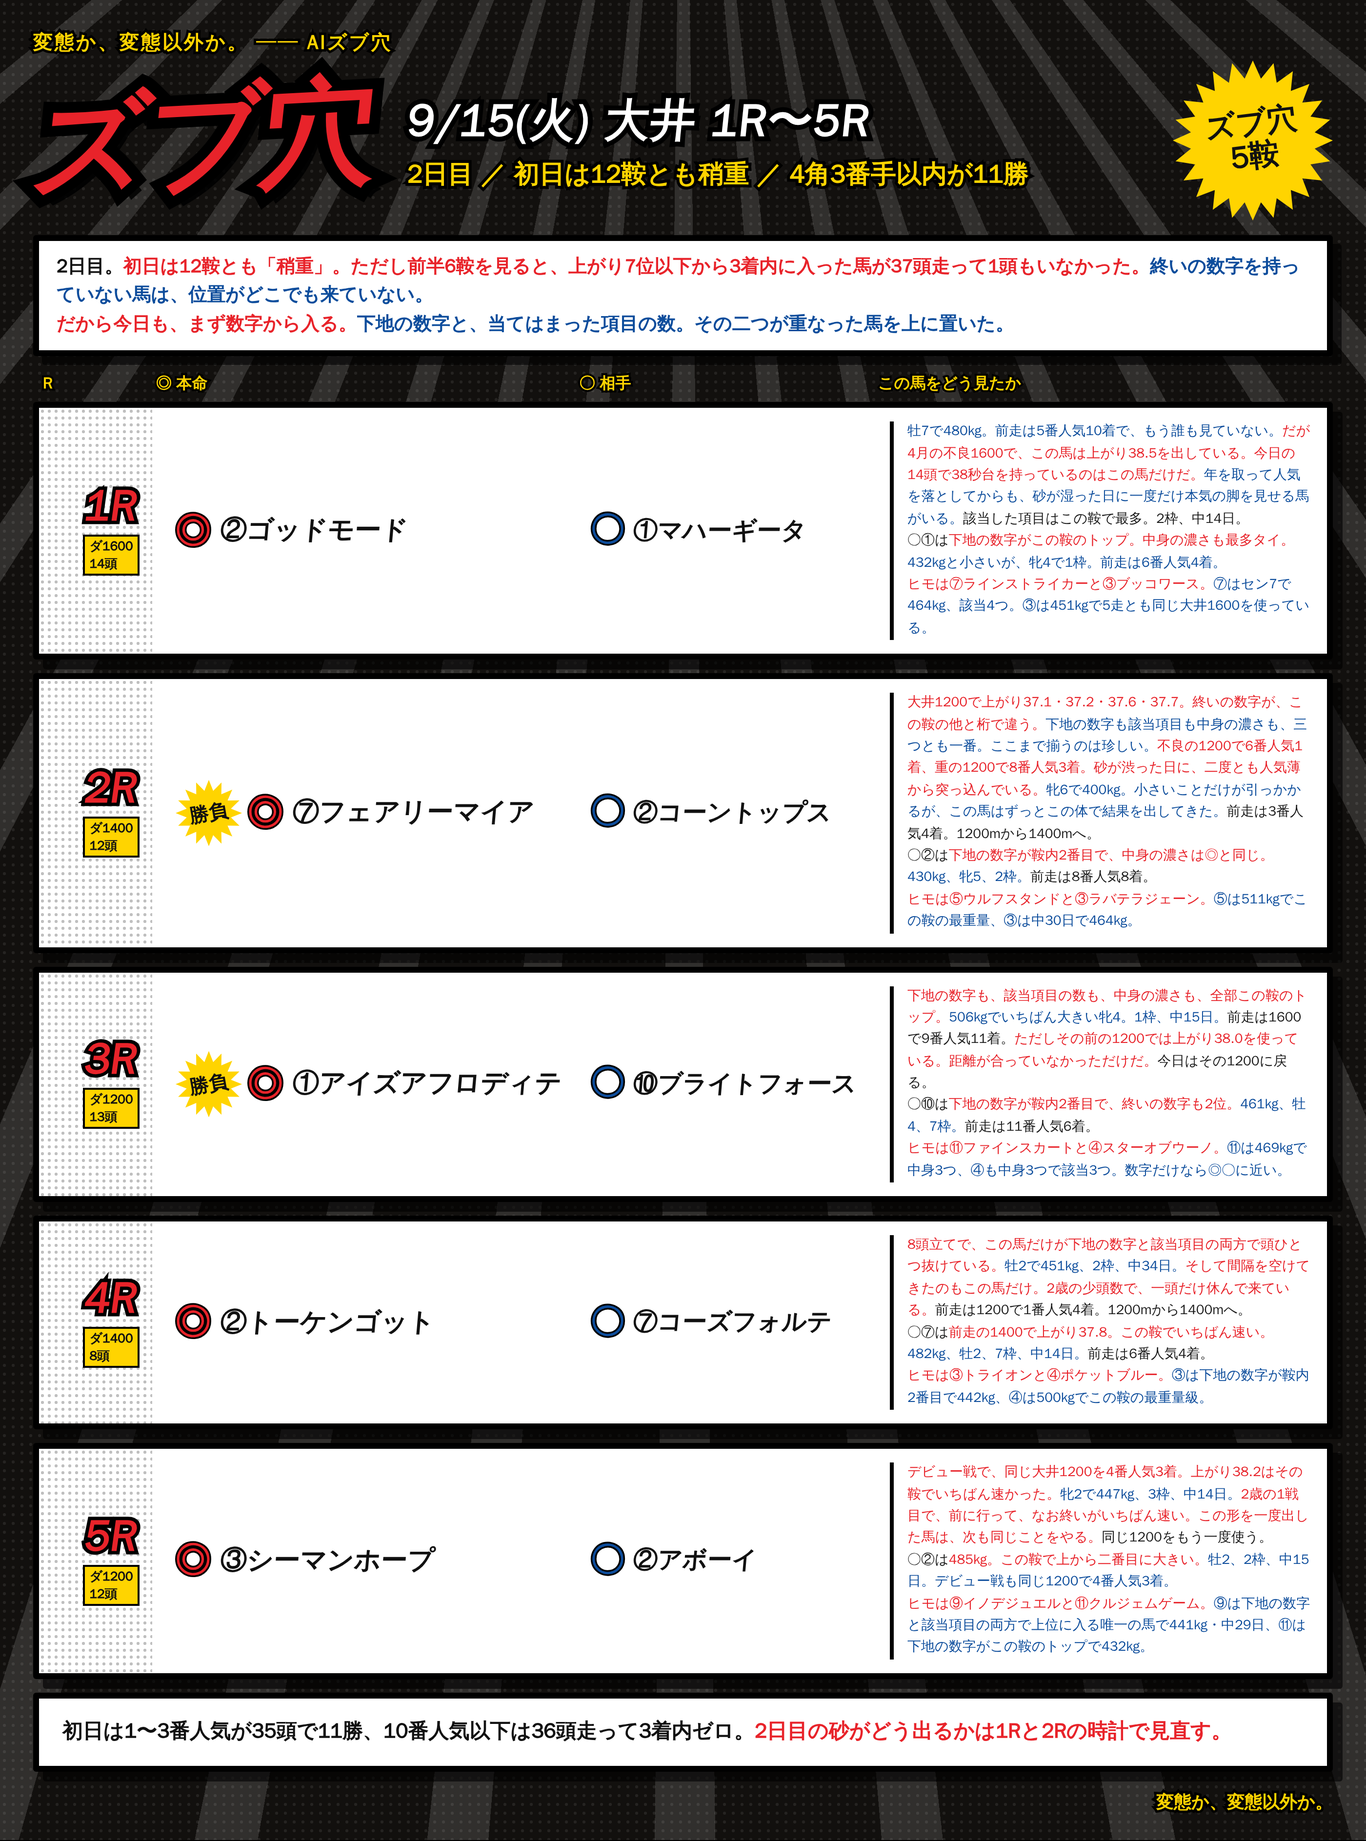
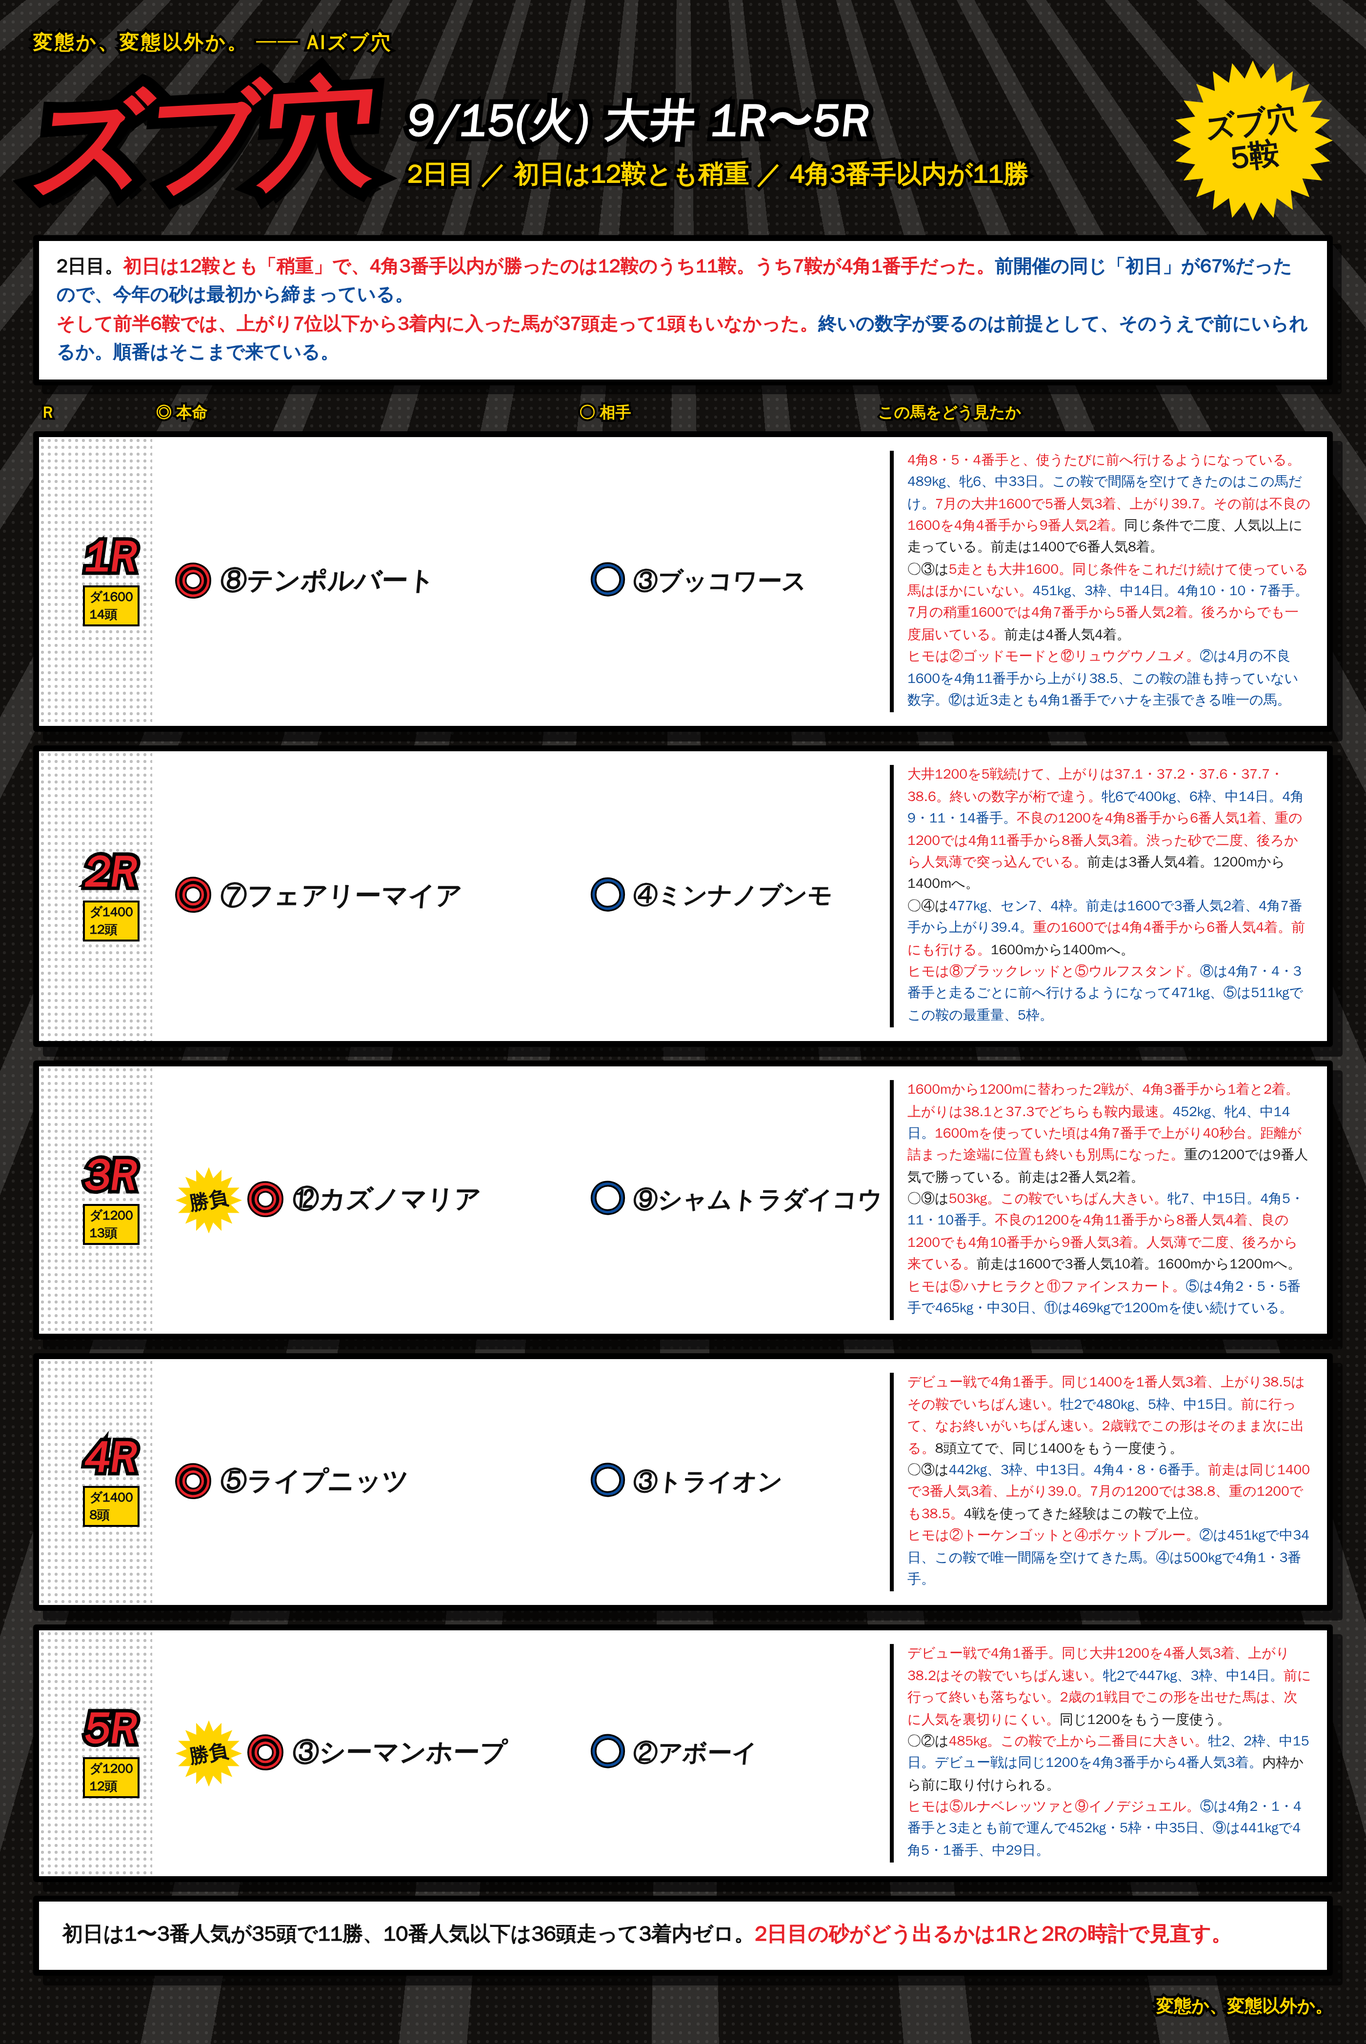
大井 9/15: 指定版に戻し、5Rを◎③シーマンホープ ○②アボーイに
Claude-Session: https://claude.ai/code/session_01RoHscZkr96FNaxQWvUqgEw

diff --git a/notes/live/2026-09-15/oi_1_5.html b/notes/live/2026-09-15/oi_1_5.html
@@ -79,13 +79,13 @@
 <body><div class="card"><div class="lines"></div><div class="tone"></div><div class="inner">
 <div class="kicker">変態か、変態以外か。 ── AIズブ穴</div>
 <div class="head"><div class="gekiga">ズブ穴</div><div class="dateblk"><div class="d1">9/15(火) 大井 1R〜5R</div><div class="d2">2日目 ／ 初日は12鞍とも稍重 ／ 4角3番手以内が11勝</div></div><div class="burst"><span>ズブ穴<br>5鞍</span></div></div>
-<div class="lead">2日目。<span class="r">初日は12鞍とも「稍重」。ただし前半6鞍を見ると、上がり7位以下から3着内に入った馬が37頭走って1頭もいなかった。</span><span class="b">終いの数字を持っていない馬は、位置がどこでも来ていない。</span><br><span class="r">だから今日も、まず数字から入る。</span><span class="b">下地の数字と、当てはまった項目の数。その二つが重なった馬を上に置いた。</span></div>
+<div class="lead">2日目。<span class="r">初日は12鞍とも「稍重」で、4角3番手以内が勝ったのは12鞍のうち11鞍。うち7鞍が4角1番手だった。</span><span class="b">前開催の同じ「初日」が67%だったので、今年の砂は最初から締まっている。</span><br><span class="r">そして前半6鞍では、上がり7位以下から3着内に入った馬が37頭走って1頭もいなかった。</span><span class="b">終いの数字が要るのは前提として、そのうえで前にいられるか。順番はそこまで来ている。</span></div>
 <div class="cols"><div class="cR">R</div><div class="cH">◎ 本命</div><div class="cA">○ 相手</div><div class="cM">この馬をどう見たか</div></div>
-<div class="row"><div class="corner"></div><div class="rN"><div class="n">1R</div><div class="d">ダ1600<br>14頭</div></div><div class="hm"><span class="mk">◎</span><span class="nm">②ゴッドモード</span></div><div class="at"><span class="mk2">○</span><span class="nm2">①マハーギータ</span></div><div class="memo"><b>牡7で480kg。前走は5番人気10着で、もう誰も見ていない。</b><b class="r">だが4月の不良1600で、この馬は上がり38.5を出している。今日の14頭で38秒台を持っているのはこの馬だけだ。</b><b>年を取って人気を落としてからも、砂が湿った日に一度だけ本気の脚を見せる馬がいる。</b>該当した項目はこの鞍で最多。2枠、中14日。<br>○①は<b class="r">下地の数字がこの鞍のトップ。中身の濃さも最多タイ。</b><b>432kgと小さいが、牝4で1枠。前走は6番人気4着。</b><br><b class="r">ヒモは⑦ラインストライカーと③ブッコワース。</b><b>⑦はセン7で464kg、該当4つ。③は451kgで5走とも同じ大井1600を使っている。</b></div></div>
-<div class="row"><div class="corner"></div><div class="rN"><div class="n">2R</div><div class="d">ダ1400<br>12頭</div></div><div class="hm"><div class="sb"><span>勝負</span></div><span class="mk">◎</span><span class="nm">⑦フェアリーマイア</span></div><div class="at"><span class="mk2">○</span><span class="nm2">②コーントップス</span></div><div class="memo"><b class="r">大井1200で上がり37.1・37.2・37.6・37.7。終いの数字が、この鞍の他と桁で違う。</b><b>下地の数字も該当項目も中身の濃さも、三つとも一番。ここまで揃うのは珍しい。</b><b class="r">不良の1200で6番人気1着、重の1200で8番人気3着。砂が渋った日に、二度とも人気薄から突っ込んでいる。</b><b>牝6で400kg。小さいことだけが引っかかるが、この馬はずっとこの体で結果を出してきた。</b>前走は3番人気4着。1200mから1400mへ。<br>○②は<b class="r">下地の数字が鞍内2番目で、中身の濃さは◎と同じ。</b><b>430kg、牝5、2枠。</b>前走は8番人気8着。<br><b class="r">ヒモは⑤ウルフスタンドと③ラバテラジェーン。</b><b>⑤は511kgでこの鞍の最重量、③は中30日で464kg。</b></div></div>
-<div class="row"><div class="corner"></div><div class="rN"><div class="n">3R</div><div class="d">ダ1200<br>13頭</div></div><div class="hm"><div class="sb"><span>勝負</span></div><span class="mk">◎</span><span class="nm">①アイズアフロディテ</span></div><div class="at"><span class="mk2">○</span><span class="nm2">⑩ブライトフォース</span></div><div class="memo"><b class="r">下地の数字も、該当項目の数も、中身の濃さも、全部この鞍のトップ。</b><b>506kgでいちばん大きい牝4。1枠、中15日。</b>前走は1600で9番人気11着。<b class="r">ただしその前の1200では上がり38.0を使っている。距離が合っていなかっただけだ。</b>今日はその1200に戻る。<br>○⑩は<b class="r">下地の数字が鞍内2番目で、終いの数字も2位。</b><b>461kg、牡4、7枠。</b>前走は11番人気6着。<br><b class="r">ヒモは⑪ファインスカートと④スターオブウーノ。</b><b>⑪は469kgで中身3つ、④も中身3つで該当3つ。数字だけなら◎○に近い。</b></div></div>
-<div class="row"><div class="corner"></div><div class="rN"><div class="n">4R</div><div class="d">ダ1400<br>8頭</div></div><div class="hm"><span class="mk">◎</span><span class="nm">②トーケンゴット</span></div><div class="at"><span class="mk2">○</span><span class="nm2">⑦コーズフォルテ</span></div><div class="memo"><b class="r">8頭立てで、この馬だけが下地の数字と該当項目の両方で頭ひとつ抜けている。</b><b>牡2で451kg、2枠、中34日。</b><b class="r">そして間隔を空けてきたのもこの馬だけ。2歳の少頭数で、一頭だけ休んで来ている。</b>前走は1200で1番人気4着。1200mから1400mへ。<br>○⑦は<b class="r">前走の1400で上がり37.8。この鞍でいちばん速い。</b><b>482kg、牡2、7枠、中14日。</b>前走は6番人気4着。<br><b class="r">ヒモは③トライオンと④ポケットブルー。</b><b>③は下地の数字が鞍内2番目で442kg、④は500kgでこの鞍の最重量級。</b></div></div>
-<div class="row"><div class="corner"></div><div class="rN"><div class="n">5R</div><div class="d">ダ1200<br>12頭</div></div><div class="hm"><span class="mk">◎</span><span class="nm">③シーマンホープ</span></div><div class="at"><span class="mk2">○</span><span class="nm2">②アボーイ</span></div><div class="memo"><b class="r">デビュー戦で、同じ大井1200を4番人気3着。上がり38.2はその鞍でいちばん速かった。</b><b>牝2で447kg、3枠、中14日。</b><b class="r">2歳の1戦目で、前に行って、なお終いがいちばん速い。この形を一度出した馬は、次も同じことをやる。</b>同じ1200をもう一度使う。<br>○②は<b class="r">485kg。この鞍で上から二番目に大きい。</b><b>牡2、2枠、中15日。デビュー戦も同じ1200で4番人気3着。</b><br><b class="r">ヒモは⑨イノデジュエルと⑪クルジェムゲーム。</b><b>⑨は下地の数字と該当項目の両方で上位に入る唯一の馬で441kg・中29日、⑪は下地の数字がこの鞍のトップで432kg。</b></div></div>
+<div class="row"><div class="corner"></div><div class="rN"><div class="n">1R</div><div class="d">ダ1600<br>14頭</div></div><div class="hm"><span class="mk">◎</span><span class="nm">⑧テンポルバート</span></div><div class="at"><span class="mk2">○</span><span class="nm2">③ブッコワース</span></div><div class="memo"><b class="r">4角8・5・4番手と、使うたびに前へ行けるようになっている。</b><b>489kg、牝6、中33日。この鞍で間隔を空けてきたのはこの馬だけ。</b><b class="r">7月の大井1600で5番人気3着、上がり39.7。その前は不良の1600を4角4番手から9番人気2着。</b>同じ条件で二度、人気以上に走っている。前走は1400で6番人気8着。<br>○③は<b class="r">5走とも大井1600。同じ条件をこれだけ続けて使っている馬はほかにいない。</b><b>451kg、3枠、中14日。4角10・10・7番手。</b><b class="r">7月の稍重1600では4角7番手から5番人気2着。後ろからでも一度届いている。</b>前走は4番人気4着。<br><b class="r">ヒモは②ゴッドモードと⑫リュウグウノユメ。</b><b>②は4月の不良1600を4角11番手から上がり38.5、この鞍の誰も持っていない数字。⑫は近3走とも4角1番手でハナを主張できる唯一の馬。</b></div></div>
+<div class="row"><div class="corner"></div><div class="rN"><div class="n">2R</div><div class="d">ダ1400<br>12頭</div></div><div class="hm"><span class="mk">◎</span><span class="nm">⑦フェアリーマイア</span></div><div class="at"><span class="mk2">○</span><span class="nm2">④ミンナノブンモ</span></div><div class="memo"><b class="r">大井1200を5戦続けて、上がりは37.1・37.2・37.6・37.7・38.6。終いの数字が桁で違う。</b><b>牝6で400kg、6枠、中14日。4角9・11・14番手。</b><b class="r">不良の1200を4角8番手から6番人気1着、重の1200では4角11番手から8番人気3着。渋った砂で二度、後ろから人気薄で突っ込んでいる。</b>前走は3番人気4着。1200mから1400mへ。<br>○④は<b>477kg、セン7、4枠。前走は1600で3番人気2着、4角7番手から上がり39.4。</b><b class="r">重の1600では4角4番手から6番人気4着。前にも行ける。</b>1600mから1400mへ。<br><b class="r">ヒモは⑧ブラックレッドと⑤ウルフスタンド。</b><b>⑧は4角7・4・3番手と走るごとに前へ行けるようになって471kg、⑤は511kgでこの鞍の最重量、5枠。</b></div></div>
+<div class="row"><div class="corner"></div><div class="rN"><div class="n">3R</div><div class="d">ダ1200<br>13頭</div></div><div class="hm"><div class="sb"><span>勝負</span></div><span class="mk">◎</span><span class="nm">⑫カズノマリア</span></div><div class="at"><span class="mk2">○</span><span class="nm2">⑨シャムトラダイコウ</span></div><div class="memo"><b class="r">1600mから1200mに替わった2戦が、4角3番手から1着と2着。上がりは38.1と37.3でどちらも鞍内最速。</b><b>452kg、牝4、中14日。</b><b class="r">1600mを使っていた頃は4角7番手で上がり40秒台。距離が詰まった途端に位置も終いも別馬になった。</b>重の1200では9番人気で勝っている。前走は2番人気2着。<br>○⑨は<b class="r">503kg。この鞍でいちばん大きい。</b><b>牝7、中15日。4角5・11・10番手。</b><b class="r">不良の1200を4角11番手から8番人気4着、良の1200でも4角10番手から9番人気3着。人気薄で二度、後ろから来ている。</b>前走は1600で3番人気10着。1600mから1200mへ。<br><b class="r">ヒモは⑤ハナヒラクと⑪ファインスカート。</b><b>⑤は4角2・5・5番手で465kg・中30日、⑪は469kgで1200mを使い続けている。</b></div></div>
+<div class="row"><div class="corner"></div><div class="rN"><div class="n">4R</div><div class="d">ダ1400<br>8頭</div></div><div class="hm"><span class="mk">◎</span><span class="nm">⑤ライプニッツ</span></div><div class="at"><span class="mk2">○</span><span class="nm2">③トライオン</span></div><div class="memo"><b class="r">デビュー戦で4角1番手。同じ1400を1番人気3着、上がり38.5はその鞍でいちばん速い。</b><b>牡2で480kg、5枠、中15日。</b><b class="r">前に行って、なお終いがいちばん速い。2歳戦でこの形はそのまま次に出る。</b>8頭立てで、同じ1400をもう一度使う。<br>○③は<b>442kg、3枠、中13日。4角4・8・6番手。</b><b class="r">前走は同じ1400で3番人気3着、上がり39.0。7月の1200では38.8、重の1200でも38.5。</b>4戦を使ってきた経験はこの鞍で上位。<br><b class="r">ヒモは②トーケンゴットと④ポケットブルー。</b><b>②は451kgで中34日、この鞍で唯一間隔を空けてきた馬。④は500kgで4角1・3番手。</b></div></div>
+<div class="row"><div class="corner"></div><div class="rN"><div class="n">5R</div><div class="d">ダ1200<br>12頭</div></div><div class="hm"><div class="sb"><span>勝負</span></div><span class="mk">◎</span><span class="nm">③シーマンホープ</span></div><div class="at"><span class="mk2">○</span><span class="nm2">②アボーイ</span></div><div class="memo"><b class="r">デビュー戦で4角1番手。同じ大井1200を4番人気3着、上がり38.2はその鞍でいちばん速い。</b><b>牝2で447kg、3枠、中14日。</b><b class="r">前に行って終いも落ちない。2歳の1戦目でこの形を出せた馬は、次に人気を裏切りにくい。</b>同じ1200をもう一度使う。<br>○②は<b class="r">485kg。この鞍で上から二番目に大きい。</b><b>牡2、2枠、中15日。デビュー戦は同じ1200を4角3番手から4番人気3着。</b>内枠から前に取り付けられる。<br><b class="r">ヒモは⑤ルナベレッツァと⑨イノデジュエル。</b><b>⑤は4角2・1・4番手と3走とも前で運んで452kg・5枠・中35日、⑨は441kgで4角5・1番手、中29日。</b></div></div>
 <div class="foot"><b>初日は1〜3番人気が35頭で11勝、10番人気以下は36頭走って3着内ゼロ。</b><b class="r">2日目の砂がどう出るかは1Rと2Rの時計で見直す。</b></div>
 <div class="sig">変態か、変態以外か。</div>
 </div></div></body></html>

diff --git a/notes/live/2026-09-15/README.md b/notes/live/2026-09-15/README.md
@@ -12,17 +12,17 @@
 
 | R | 条件 | ◎ | ○ | ヒモ |
 |---|---|---|---|---|
-| 1R | ダ1600 14頭 Ｃ３ | ②ゴッドモード | ①マハーギータ | ⑦ラインストライカー ③ブッコワース |
-| **2R【勝負】** | ダ1400 12頭 Ｃ３ | ⑦フェアリーマイア | ②コーントップス | ⑤ウルフスタンド ③ラバテラジェーン |
-| **3R【勝負】** | ダ1200 13頭 Ｃ３ | ①アイズアフロディテ | ⑩ブライトフォース | ⑪ファインスカート ④スターオブウーノ |
-| 4R | ダ1400 8頭 2歳 | ②トーケンゴット | ⑦コーズフォルテ | ③トライオン ④ポケットブルー |
-| 5R | ダ1200 12頭 2歳 | ③シーマンホープ | ②アボーイ | ⑨イノデジュエル ⑪クルジェムゲーム |
+| 1R | ダ1600 14頭 Ｃ３ | ⑧テンポルバート | ③ブッコワース | ②ゴッドモード ⑫リュウグウノユメ |
+| 2R | ダ1400 12頭 Ｃ３ | ⑦フェアリーマイア | ④ミンナノブンモ | ⑧ブラックレッド ⑤ウルフスタンド |
+| **3R【勝負】** | ダ1200 13頭 Ｃ３ | ⑫カズノマリア | ⑨シャムトラダイコウ | ⑤ハナヒラク ⑪ファインスカート |
+| 4R | ダ1400 8頭 2歳 | ⑤ライプニッツ | ③トライオン | ②トーケンゴット ④ポケットブルー |
+| **5R【勝負】** | ダ1200 12頭 2歳 | ③シーマンホープ | ②アボーイ | ⑤ルナベレッツァ ⑨イノデジュエル |
 
-勝負は2Rと3R。◎は1R〜4Rが前走で馬券になっていない馬から（5Rは指定で◎③・○②とも前走3着）。
+勝負は3Rと5R。◎が前走で馬券になっていないのは1Rと2Rのみ（3R・4R・5Rは指定で前走馬券圏内）。
+カード末尾の「この条件が向いている。」は削除（以降のカードでも使わない）。
 
-**位置取りに寄せ過ぎた版から、ズブ穴ファクター（399＋エッジ＋本物）を軸に組み直した。**
-初日の結果を見て4角位置を優先したが、それは9/9の川崎でやって外した組み方と同じだった。
-ベースは399とエッジの数字、位置は補助に戻す。
+一度ズブ穴ファクター（399＋エッジ）軸に組み直したが、指定によりこの版に戻した。ファクター軸版の印は次のとおりで、必要になれば戻せる：
+1R ◎②ゴッドモード ○①マハーギータ／2R ◎⑦フェアリーマイア ○②コーントップス／3R ◎①アイズアフロディテ ○⑩ブライトフォース／4R ◎②トーケンゴット ○⑦コーズフォルテ／5R ◎⑨イノデジュエル ○⑪クルジェムゲーム
 
 内部メモ（カードには載せない）:
 - 1R（指定）◎⑧ 399=5.7 本物2 489k 4角8・5・4 中33日 田中洸／○② 399=10.6 エッジ5 鞍内2位 480k 2枠（4月の不良1600で4角11番手から上がり38.5）／○③ 399=6.9 エッジ3 本物2 451k 3枠 4角10・10・7（7月の稍重1600で4角7番手から5番人気2着）／ヒモ② 399=10.6 エッジ5 鞍内2位・⑫ 4角1・1・1 445k
